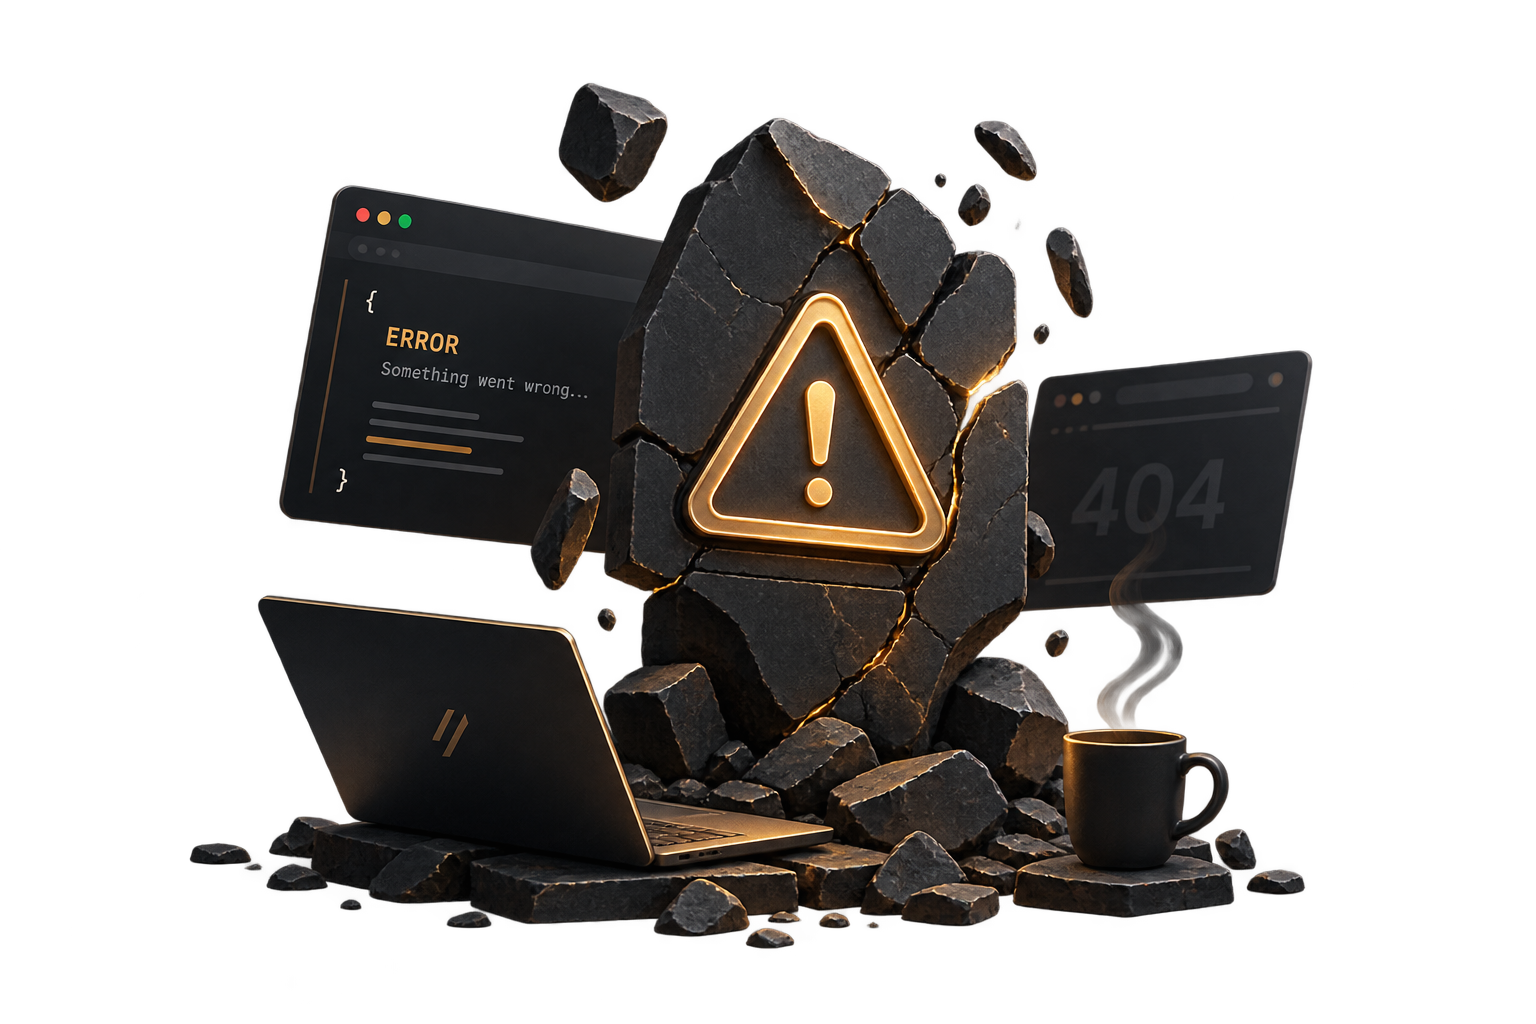
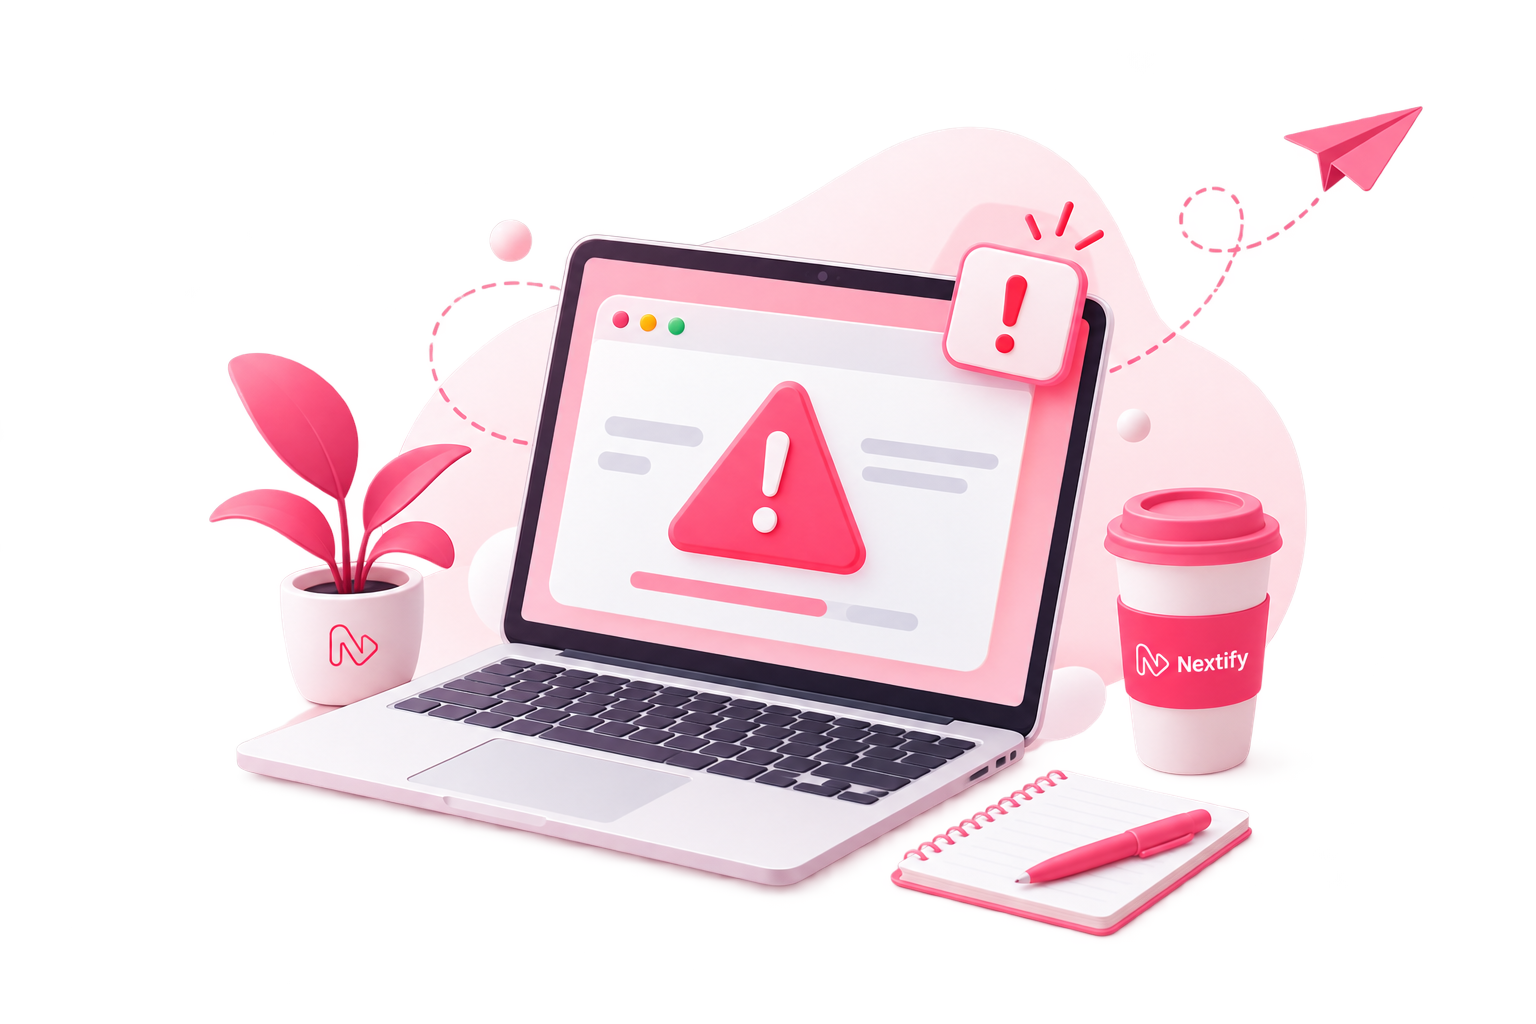
error page added

diff --git a/public/css/style.css b/public/css/style.css
@@ -156,6 +156,24 @@ body {
   display: flex;
 }
 
+/* error page */
+.error_img {
+  width: 90vw;
+  display: flex;
+  justify-content: center;
+  align-items: center;
+  flex-direction: column;
+}
+
+.error_img img {
+  width: 50% !important;
+}
+
+.warning {
+  color: #ff385c;
+  font-size: 1.5rem;
+}
+
 @media (max-width: 500px) {
   .add {
     width: 5rem !important;

diff --git a/app.js b/app.js
@@ -113,7 +113,8 @@ app.all("/{*splat}", (req, res, next) => {
 
 app.use((err, req, res, next) => {
   let { statusCode = 500, message = "Some Error Occured." } = err;
-  res.status(statusCode).send(message);
+  // res.status(statusCode).send(message);
+  res.status(statusCode).render("error.ejs", { message });
 });
 
 app.listen(port, () => {
